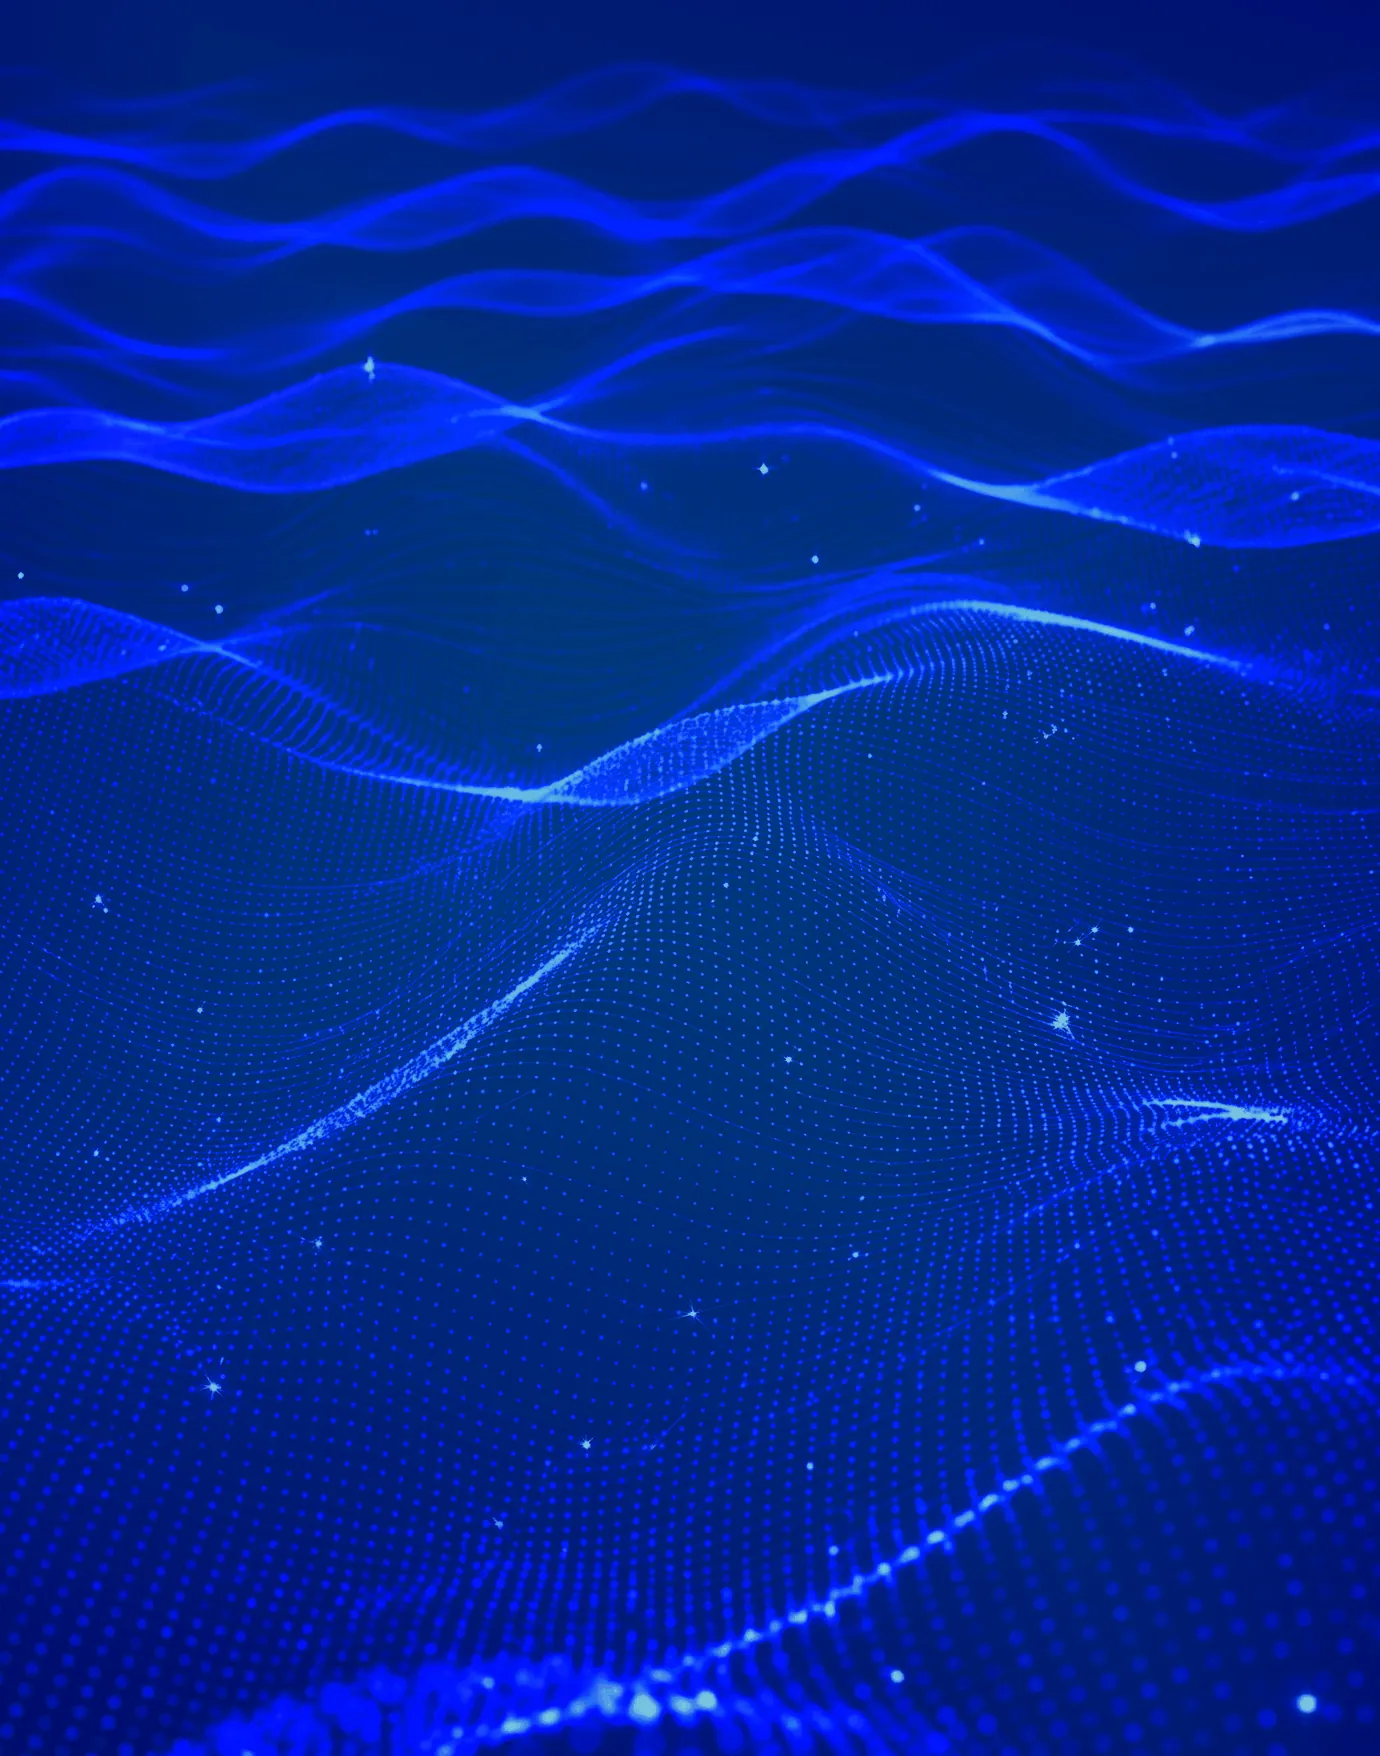
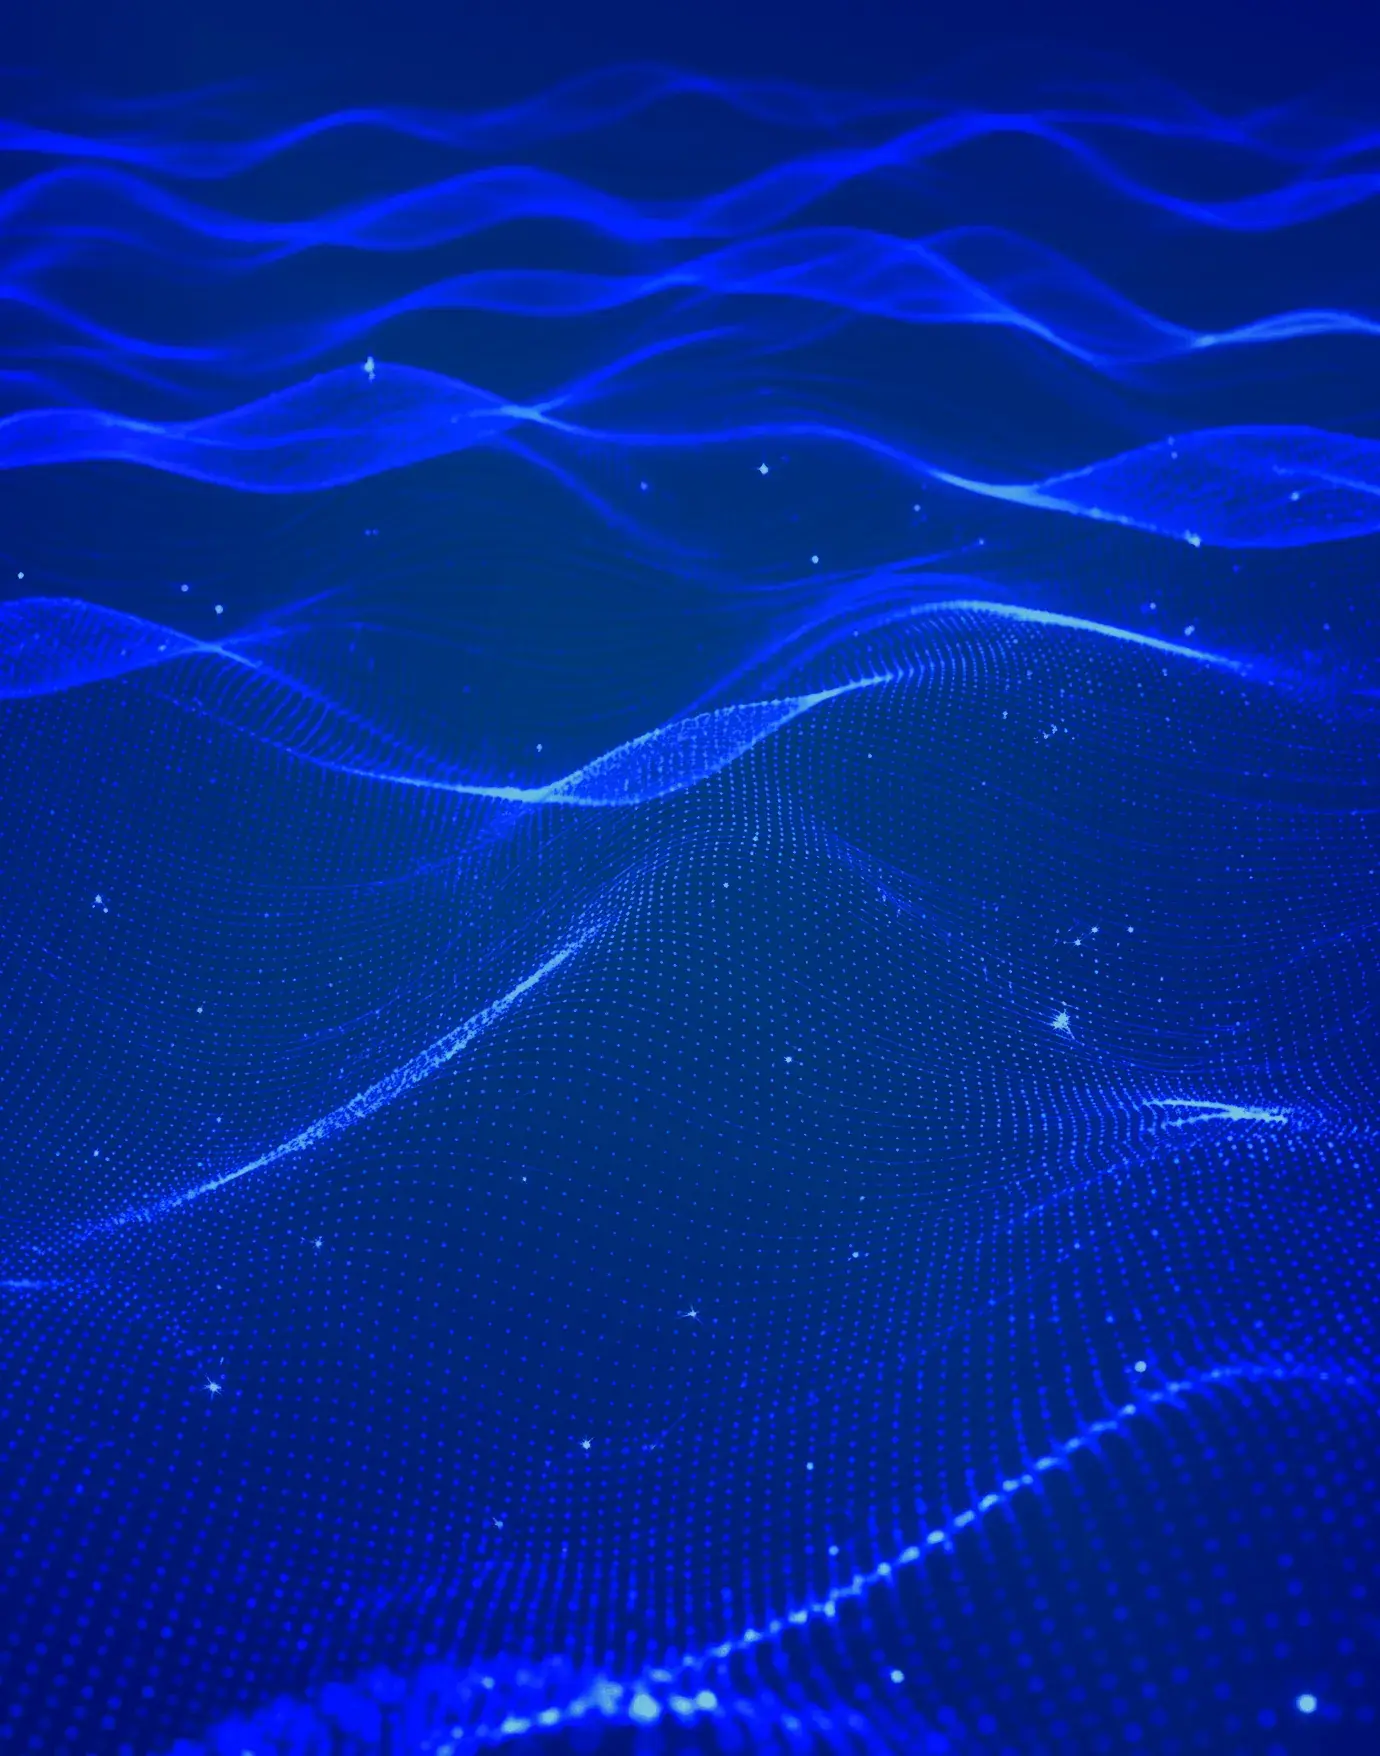
docs(seo): improve performance and LCP

diff --git a/website/src/pages/index.tsx b/website/src/pages/index.tsx
@@ -4,18 +4,16 @@ import type { ReactNode } from 'react';
 import BrowserOnly from '@docusaurus/BrowserOnly';
 import Head from '@docusaurus/Head';
 import Link from '@docusaurus/Link';
-import { AgentsModal } from '@site/src/components/AgentsModal';
 import { frameResizeObserver } from '@site/src/components/frameResizeObserver';
 import { Brand } from '@site/src/components/home/Brand';
 import { InstallPanel } from '@site/src/components/home/InstallPanel';
 import { OverviewPanel } from '@site/src/components/home/OverviewPanel';
 import { RailTip } from '@site/src/components/home/RailTip';
 import { TopBar } from '@site/src/components/home/TopBar';
-import { UsagePanel } from '@site/src/components/home/UsagePanel';
 import { MaskIcon } from '@site/src/components/MaskIcon';
-import { SpecializationsModal } from '@site/src/components/SpecializationsModal';
-import { WaterField } from '@site/src/components/WaterField';
 import {
+  BACKGROUND_SIZES,
+  BACKGROUND_SRCSETS,
   BACKGROUNDS,
   FEATURE,
   PHASE_STEPS,
@@ -25,6 +23,8 @@ import {
 } from '@site/src/data/home';
 import { ALL_AGENTS, ALL_CATEGORIES } from '@site/src/data/registry';
 import {
+  lazy,
+  Suspense,
   useCallback,
   useEffect,
   useLayoutEffect,
@@ -34,6 +34,30 @@ import {
 import { FaStar } from 'react-icons/fa6';
 import { GoHeartFill } from 'react-icons/go';
 import { LuMenu, LuX } from 'react-icons/lu';
+
+const WaterField = lazy(() =>
+  import('@site/src/components/WaterField').then((module) => ({
+    default: module.WaterField,
+  }))
+);
+
+const AgentsModal = lazy(() =>
+  import('@site/src/components/AgentsModal').then((module) => ({
+    default: module.AgentsModal,
+  }))
+);
+
+const SpecializationsModal = lazy(() =>
+  import('@site/src/components/SpecializationsModal').then((module) => ({
+    default: module.SpecializationsModal,
+  }))
+);
+
+const UsagePanel = lazy(() =>
+  import('@site/src/components/home/UsagePanel').then((module) => ({
+    default: module.UsagePanel,
+  }))
+);
 
 const WaveIcon = (): ReactNode => (
   <span className='relative inline-block size-4 shrink-0'>
@@ -255,16 +279,6 @@ const Home = (): ReactNode => {
           content='Lagune helps your AI agent secure any codebase: it detects what your system actually does, then drives the defensive work that fits as you build.'
         />
         <meta name='twitter:image' content='https://lagune.ai/img/og.png' />
-        <link rel='preconnect' href='https://fonts.googleapis.com' />
-        <link
-          rel='preconnect'
-          href='https://fonts.gstatic.com'
-          crossOrigin='anonymous'
-        />
-        <link
-          href='https://fonts.googleapis.com/css2?family=Archivo:wght@600;700;800;900&family=Inter:wght@400;500;600;700&family=Ubuntu+Mono:wght@400;700&display=swap'
-          rel='stylesheet'
-        />
         <script type='application/ld+json'>
           {JSON.stringify({
             '@context': 'https://schema.org',
@@ -312,7 +326,9 @@ const Home = (): ReactNode => {
       >
         <BrowserOnly>
           {() => (
-            <WaterField className='absolute inset-0 z-[1] w-full h-full opacity-[0.32]' />
+            <Suspense fallback={null}>
+              <WaterField className='absolute inset-0 z-[1] w-full h-full opacity-[0.32]' />
+            </Suspense>
           )}
         </BrowserOnly>
         <div className='absolute inset-0 z-[2] [background:radial-gradient(120%_120%_at_50%_40%,transparent_30%,rgba(4,8,22,0.85)_100%)]' />
@@ -346,8 +362,11 @@ const Home = (): ReactNode => {
             >
               {pill && (
                 <span
-                  className='absolute top-1 bottom-1 rounded-lg border border-accent/50 bg-accent/15 transition-[left,width] duration-300 ease-[cubic-bezier(0.22,1,0.36,1)] pointer-events-none'
-                  style={{ left: pill.left, width: pill.width }}
+                  className='absolute top-1 bottom-1 left-0 rounded-lg border border-accent/50 bg-accent/15 transition-[transform,width] duration-300 ease-[cubic-bezier(0.22,1,0.36,1)] pointer-events-none'
+                  style={{
+                    transform: `translateX(${pill.left}px)`,
+                    width: pill.width,
+                  }}
                   aria-hidden
                 />
               )}
@@ -535,14 +554,16 @@ const Home = (): ReactNode => {
                   )}
 
                   {active === 'usage' && (
-                    <UsagePanel
-                      usageStep={usageStep}
-                      modeIndex={modeIndex}
-                      typedDone={typedDone}
-                      onSelectMode={selectMode}
-                      onStep={goToStep}
-                      onTyped={markTyped}
-                    />
+                    <Suspense fallback={null}>
+                      <UsagePanel
+                        usageStep={usageStep}
+                        modeIndex={modeIndex}
+                        typedDone={typedDone}
+                        onSelectMode={selectMode}
+                        onStep={goToStep}
+                        onTyped={markTyped}
+                      />
+                    </Suspense>
                   )}
                 </div>
               </div>
@@ -555,11 +576,13 @@ const Home = (): ReactNode => {
                       active === tab.id ? 'opacity-25' : 'opacity-0'
                     }`}
                     src={BACKGROUNDS[tab.id]}
+                    srcSet={BACKGROUND_SRCSETS[tab.id]}
+                    sizes={BACKGROUND_SIZES}
                     alt={`Lagune ${tab.label}`}
                     aria-hidden
                     decoding='async'
                     loading={active === tab.id ? 'eager' : 'lazy'}
-                    fetchPriority={active === tab.id ? 'auto' : 'low'}
+                    fetchPriority={active === tab.id ? 'high' : 'low'}
                   />
                 ))}
                 <div className='absolute inset-0 -z-[3] [background:linear-gradient(180deg,#0a1a4a_0%,#050d2c_60%,#03081c_100%)]' />
@@ -598,19 +621,27 @@ const Home = (): ReactNode => {
         </section>
       </main>
 
-      <AgentsModal
-        open={agentsOpen}
-        agents={ALL_AGENTS}
-        onSelect={setSelected}
-        onClose={closeAgents}
-      />
-      <SpecializationsModal
-        open={specsOpen}
-        categories={ALL_CATEGORIES}
-        skills={skills}
-        onToggle={toggleSkill}
-        onClose={() => setSpecsOpen(false)}
-      />
+      {agentsOpen && (
+        <Suspense fallback={null}>
+          <AgentsModal
+            open={agentsOpen}
+            agents={ALL_AGENTS}
+            onSelect={setSelected}
+            onClose={closeAgents}
+          />
+        </Suspense>
+      )}
+      {specsOpen && (
+        <Suspense fallback={null}>
+          <SpecializationsModal
+            open={specsOpen}
+            categories={ALL_CATEGORIES}
+            skills={skills}
+            onToggle={toggleSkill}
+            onClose={() => setSpecsOpen(false)}
+          />
+        </Suspense>
+      )}
     </div>
   );
 };

diff --git a/website/src/components/WaterField/index.tsx b/website/src/components/WaterField/index.tsx
@@ -8,8 +8,18 @@ const COLOR_BACK = '#2200ff';
 const COLOR_HIGHLIGHT = '#001428';
 
 const SPEED = 0.6;
-const SPEED_REDUCED = 0.5;
+const SPEED_REDUCED = 0.4;
 const SPEED_MOBILE = 0.2;
+
+const ACTIVATION_EVENTS = [
+  'pointermove',
+  'pointerdown',
+  'wheel',
+  'touchstart',
+  'keydown',
+] as const;
+
+const IDLE_MOUNT_MS = 25;
 
 const EDGE_FADE = '#0051ff 50%, #08103a 75%, transparent';
 const FIELD_MASK = `linear-gradient(to bottom, transparent, ${EDGE_FADE})`;
@@ -37,14 +47,44 @@ const WaterFieldComponent = ({ className }: { className?: string }) => {
   const isMobile = useMediaQuery(MOBILE_QUERY);
   const prefersReducedMotion = useMediaQuery(REDUCED_MOTION_QUERY);
   const [revealed, setRevealed] = useState(false);
+  const [active, setActive] = useState(false);
+  const [mounted, setMounted] = useState(false);
 
   useEffect(() => {
+    if (!mounted) return;
+
     const frame = requestAnimationFrame(() =>
       requestAnimationFrame(() => setRevealed(true))
     );
 
     return () => cancelAnimationFrame(frame);
+  }, [mounted]);
+
+  useEffect(() => {
+    const start = () => {
+      setMounted(true);
+      setActive(true);
+    };
+    const options = { once: true, passive: true } as const;
+    const idle = window.setTimeout(() => setMounted(true), IDLE_MOUNT_MS);
+
+    for (const event of ACTIVATION_EVENTS)
+      window.addEventListener(event, start, options);
+
+    return () => {
+      window.clearTimeout(idle);
+
+      for (const event of ACTIVATION_EVENTS)
+        window.removeEventListener(event, start);
+    };
   }, []);
+
+  const animatedSpeed = isMobile
+    ? SPEED_MOBILE
+    : prefersReducedMotion
+      ? SPEED_REDUCED
+      : SPEED;
+  const speed = active ? animatedSpeed : 0.1;
 
   return (
     <div
@@ -56,30 +96,30 @@ const WaterFieldComponent = ({ className }: { className?: string }) => {
       }}
       aria-hidden
     >
-      <Water
-        image='/img/bg-0.png'
-        width='100%'
-        height='100%'
-        colorBack={COLOR_BACK}
-        colorHighlight={COLOR_HIGHLIGHT}
-        highlights={0.25}
-        layering={0}
-        edges={0.25}
-        waves={0.25}
-        caustic={0.25}
-        size={0.25}
-        scale={1.2}
-        speed={
-          isMobile ? SPEED_MOBILE : prefersReducedMotion ? SPEED_REDUCED : SPEED
-        }
-        fit='cover'
-        style={{
-          opacity: revealed ? (isMobile ? 1 : 0.5) : 0,
-          backgroundColor: COLOR_BACK,
-          willChange: 'opacity',
-          transition: 'opacity 400ms ease',
-        }}
-      />
+      {mounted && (
+        <Water
+          image='/img/bg-0.webp'
+          width='100%'
+          height='100%'
+          colorBack={COLOR_BACK}
+          colorHighlight={COLOR_HIGHLIGHT}
+          highlights={0.25}
+          layering={0}
+          edges={0.25}
+          waves={0.25}
+          caustic={0.25}
+          size={0.25}
+          scale={1.2}
+          speed={speed}
+          fit='cover'
+          style={{
+            opacity: revealed ? (isMobile ? 1 : 0.5) : 0,
+            backgroundColor: COLOR_BACK,
+            willChange: 'opacity',
+            transition: 'opacity 400ms ease',
+          }}
+        />
+      )}
     </div>
   );
 };

diff --git a/website/docusaurus.config.ts b/website/docusaurus.config.ts
@@ -41,25 +41,6 @@ const config: Config = {
   headTags: [
     {
       tagName: 'link',
-      attributes: { rel: 'preconnect', href: 'https://fonts.googleapis.com' },
-    },
-    {
-      tagName: 'link',
-      attributes: {
-        rel: 'preconnect',
-        href: 'https://fonts.gstatic.com',
-        crossorigin: 'anonymous',
-      },
-    },
-    {
-      tagName: 'link',
-      attributes: {
-        rel: 'stylesheet',
-        href: 'https://fonts.googleapis.com/css2?family=Archivo:wght@600;700;800;900&family=Fira+Code:wght@400;600&family=Inter:wght@400;500;600;700&family=Plus+Jakarta+Sans:wght@400;500;600;700;800&family=Ubuntu+Mono:wght@400;700&display=swap',
-      },
-    },
-    {
-      tagName: 'link',
       attributes: {
         rel: 'apple-touch-icon',
         sizes: '180x180',

diff --git a/website/src/css/custom.css b/website/src/css/custom.css
@@ -3,6 +3,17 @@
 @import 'tailwindcss/theme.css' layer(theme);
 @import 'tailwindcss/utilities.css' layer(utilities);
 
+@import '@fontsource/inter/latin-400.css';
+@import '@fontsource/inter/latin-500.css';
+@import '@fontsource/inter/latin-600.css';
+@import '@fontsource/inter/latin-700.css';
+@import '@fontsource/archivo/latin-600.css';
+@import '@fontsource/archivo/latin-700.css';
+@import '@fontsource/archivo/latin-800.css';
+@import '@fontsource/archivo/latin-900.css';
+@import '@fontsource/ubuntu-mono/latin-400.css';
+@import '@fontsource/ubuntu-mono/latin-700.css';
+
 @source '../pages';
 @source '../components';
 

diff --git a/website/src/data/home.tsx b/website/src/data/home.tsx
@@ -359,6 +359,17 @@ export const BACKGROUNDS: Record<WindowId, string> = {
   usage: '/img/bg-3.webp',
 };
 
+const backgroundSrcSet = (name: string) =>
+  `/img/${name}-480.webp 480w, /img/${name}-912.webp 912w, /img/${name}.webp 1380w`;
+
+export const BACKGROUND_SRCSETS: Record<WindowId, string> = {
+  overview: backgroundSrcSet('bg-1'),
+  install: backgroundSrcSet('bg-2'),
+  usage: backgroundSrcSet('bg-3'),
+};
+
+export const BACKGROUND_SIZES = '(max-width: 920px) 100vw, 456px';
+
 export const FEATURE: Record<
   WindowId,
   { kicker: ReactNode; chip: string; eyebrow: string; title: ReactNode }

diff --git a/website/src/css/docs.css b/website/src/css/docs.css
@@ -1,3 +1,11 @@
+@import '@fontsource/plus-jakarta-sans/latin-400.css';
+@import '@fontsource/plus-jakarta-sans/latin-500.css';
+@import '@fontsource/plus-jakarta-sans/latin-600.css';
+@import '@fontsource/plus-jakarta-sans/latin-700.css';
+@import '@fontsource/plus-jakarta-sans/latin-800.css';
+@import '@fontsource/fira-code/latin-400.css';
+@import '@fontsource/fira-code/latin-600.css';
+
 /*
  * Docs skin: the documentation's own design system, scoped under .lagune-docs
  * as the token set every docs utility (bg-surface, text-ink…) resolves to.